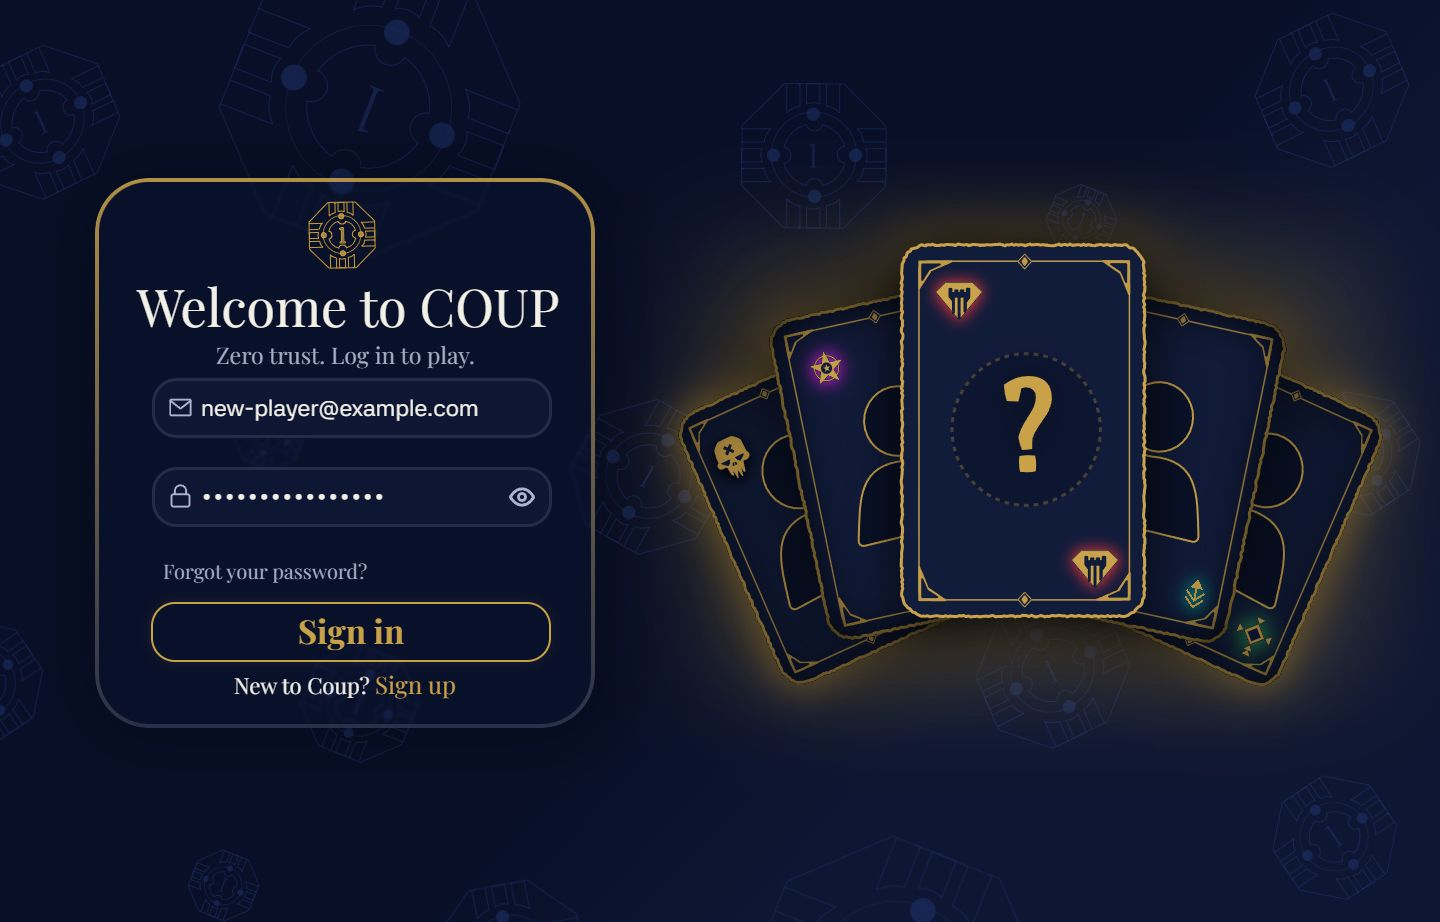
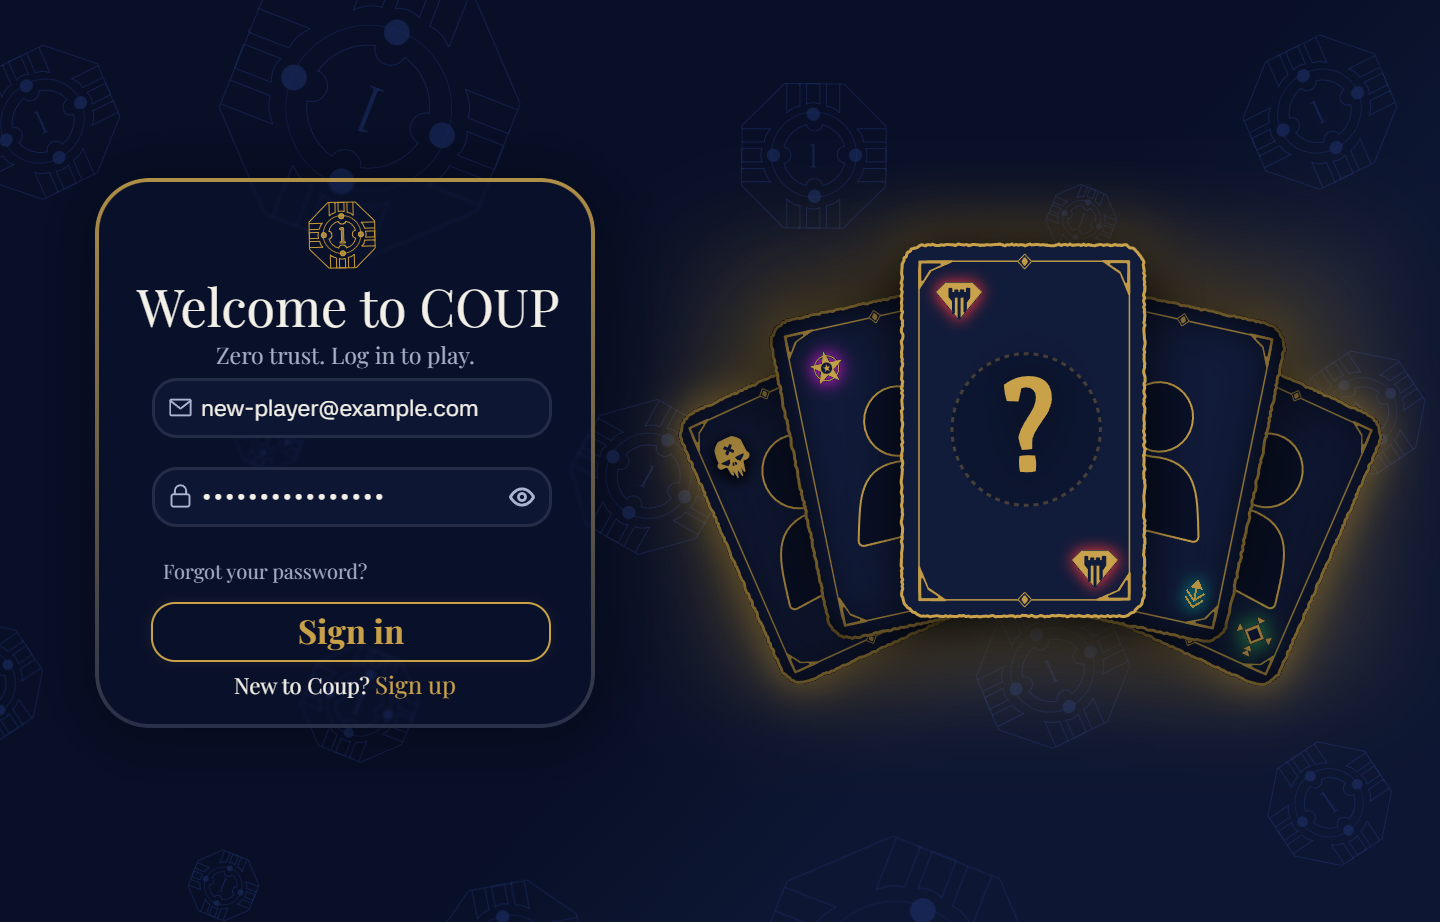
Scatter the three right-side background coins
The three coins on the right of the login page sat almost in one
column. Move each one to a fixed zig-zag spot inside the right strip
(x 1228 to 1440 of the 1440 x 922 design), with 16 px between the outer
coins and both strip edges. Size, angle, color, and the other coins
stay the same. The two left-side coins that copy these groups do not
move, because the move is on a new outer group.

Capture all eight saved previews again. They are now real PNG files;
the old ones were JPEG data with a .png name.

diff --git a/docs/login-design.md b/docs/login-design.md
@@ -24,6 +24,7 @@ Colors used in several places are tokens in `frontend/src/styles/index.css`.
 The cards (instance 120:4380, 715 x 447 at x 673, y 245), coins, and emblem are SVG exports in `frontend/public/assets/`. The four fonts are bundled locally with Fontsource.
 
 - The Figma export left out details from five background coins. They reuse complete coin artwork with only rotation and movement, so size, color, and stroke stay the same. All 16 coins are complete.
+- The user asked to scatter the three coins on the right side, which were almost in one column. They keep their size, angle, and color, but now sit in a zig-zag inside the right strip (x 1228 to 1440): top coin at x 1244, y 36; middle coin ending at x 1424, y 352; bottom coin at x 1268, y 742. The outer coins are 16 px from both edges of the strip. On windows wider than the design shape, more background shows on the right.
 - The card glow uses a soft SVG shadow, because Figma's outer filter made rectangle artifacts. The filter areas leave room so the blur is never cut off.
 - The 1440 x 922 scene scales as one piece to fit the window, with a 1024 px minimum width. The background fills wide screens. Coins may be cut by the window edge, as in Figma. There is no mobile layout.
 
